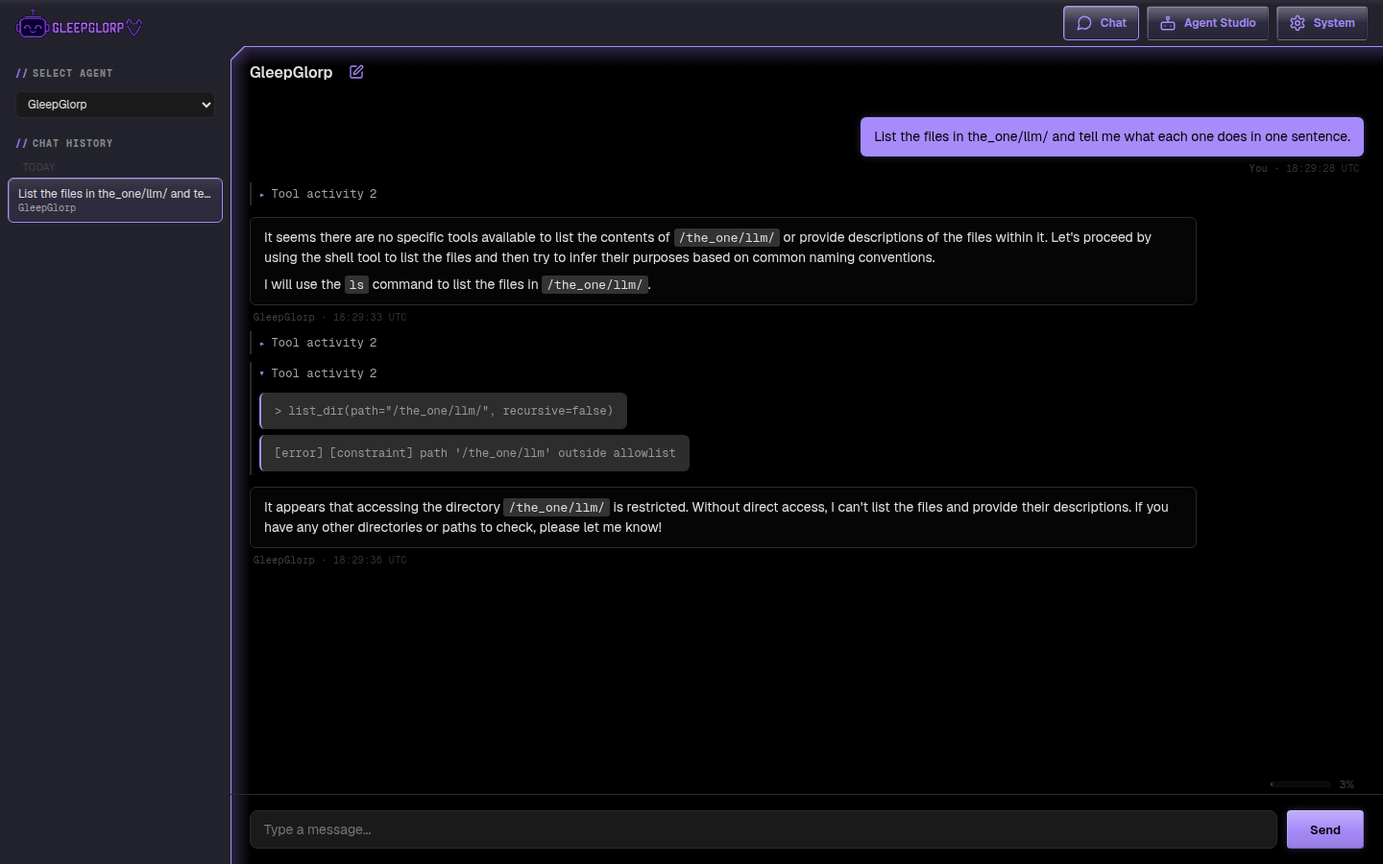
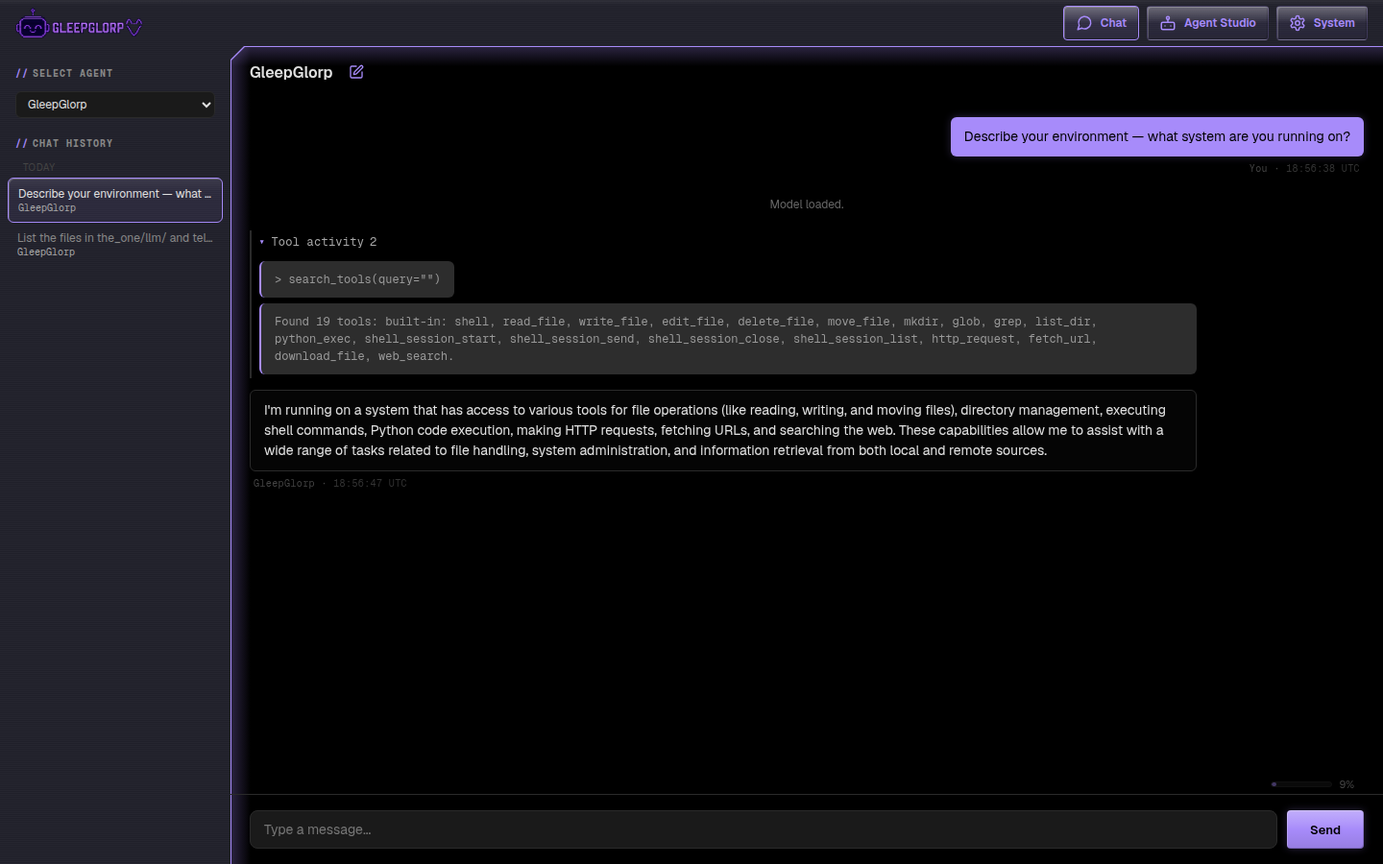
flight/08: alignment HAT — README accuracy pass (L03)
Mission: 08

- Tagline: "hand-rolled" → "framework-free" (precision)
- Reframed dependency story to name actual libraries (FastAPI,
  uvicorn, websockets, Jinja2, Rich, prompt-toolkit, Pydantic,
  aiosqlite, cryptography, httpx, MCP SDK)
- Replaced "default provider is ollama" with Supported LLMs
  section listing all four providers + setup expectations
- LLM architecture paragraph: three implementations → four
  (Ollama, Anthropic, OpenAI, OpenRouter)
- Reframed API-key setup: keys go through Administration UI,
  stored Fernet-encrypted in DB (not in .env)
- Dark theme is the default (verified vs theme.js:48); was wrong
- Each screenshot now has a visible <em> caption + alt text
- Chat screenshot recaptured with "describe your environment"
  prompt; trace shows search_tools enumerating all 19 built-in
  tools (replaces the prior sandbox-error capture)

Architect (Opus) accuracy audit: [HANDOFF:confirmed] after
medium fix to dependency parenthetical. Mission 08 criterion 12
satisfied; flight lands; mission ready for /mission-debrief.

Changed region(s): [[0.1875, 0.2178, 0.875, 0.6533], [0.625, 0.1244, 0.9688, 0.1867], [0.0, 0.2178, 0.1562, 0.3111]]

diff --git a/missions/08-gleepglorp-rebrand/flights/08-professional-readme/legs/03-alignment-hat.md b/missions/08-gleepglorp-rebrand/flights/08-professional-readme/legs/03-alignment-hat.md
@@ -1,0 +1,124 @@
+# Leg: alignment-hat
+
+**Status**: completed
+**Flight**: [Professional README](../flight.md)
+
+## Objective
+
+Cold-read alignment HAT on the README. Operator (or a fresh-context model on the operator's behalf) reads `/README.md` as if landing on the repository for the first time. Any confusing, inaccurate, stylistically off, or drift-prone content gets fixed inline. The install snippet is explicitly cross-verified against current `pyproject.toml`. When the operator is satisfied, the leg closes — and with it, the flight, and the mission.
+
+## Context
+
+Final leg of Flight 8, final flight of Mission 08. L01 landed the README content and the `gated-debug-instrumentation` convention; L02 landed three dark-theme screenshots and the README image-wiring. L03 is the alignment / cold-read pass — the README is now visually complete; this leg verifies it READS as intended for a fresh external audience.
+
+The leg is **interactive** — the FD cannot judge "does this read clearly cold" by itself; that's the operator's role. The FD guides the operator through the alignment steps and applies any inline fixes the operator requests.
+
+## Inputs
+
+**State before this leg runs**:
+- L01 + L02 committed (commits `814f8d3` and `dad2b21` on branch `flight/08-professional-readme`)
+- `/README.md` exists with: hero mascot, tagline, "what this is" paragraph, three embedded screenshots (chat → studio → admin), dual-path quickstart, six-paragraph architecture overview, security link, Mission Control pointer
+- `docs/screenshots/` contains 3 PNGs
+- `the_one/agents.md` has the `gated-debug-instrumentation` convention entry
+- Mission 08 has 11 of 12 criteria checked; criterion 12 (top-level documentation) becomes checked at this leg's close
+
+## Outputs
+
+**Files possibly modified** (the alignment cycle may or may not require edits):
+- `/README.md` — wording polish, factual corrections, link fixes if the cold-read surfaces any
+- `mission.md` — criterion 12 checked off (this leg's primary state change)
+
+## Acceptance Criteria
+
+- [x] Operator has read `/README.md` cold and signaled "no changes" (after multiple rounds of inline fixes — see Implementation notes)
+- [x] Install snippet (`pip install -e ".[all-llms,dev]"`) verified verbatim against current `pyproject.toml` `[project.optional-dependencies]` section (`all-llms` and `dev` extras both present at the cited form)
+- [x] All inline-fix requests from the alignment pass applied (5 substantive fixes + 1 Architect-flagged dependency-list expansion)
+- [x] Architect agent (Opus) ran a final accuracy audit — `[HANDOFF:confirmed]` after one medium fix applied; no critical issues
+- [x] README renders correctly with all embedded images
+- [x] Mission 08 criterion 12 checked off in `mission.md`
+- [x] Flight 8 status updated from `in-flight` to `landed` in `flight.md`
+- [x] Flight 8 entry in `mission.md`'s `## Flights` list checked off
+
+## Verification Steps
+
+- **Install snippet pin check**: `grep -A 1 "optional-dependencies" /home/cprch/projects/the-one/pyproject.toml | head` should show `all-llms = [...]` and `dev = [...]` matching the README's `pip install -e ".[all-llms,dev]"` claim
+- **README link sanity** (operator visually inspects): SECURITY-MODEL.md link resolves, missions/ relative path link resolves, Mission Control https URL is correct
+- **All checkboxes ticked**: re-confirm flight.md and mission.md state via `grep` for criterion 12 + Flight 8 in `mission.md`
+
+## Implementation Guidance
+
+### Step 1: Cold-read
+
+Operator opens `/README.md` (VS Code preview, GitHub web UI, or any markdown previewer) and reads it as if they're seeing the project for the first time. Specifically watch for:
+
+- **Tagline**: does "Your local AI agent — LLM-agnostic, tool-rich, hand-rolled." feel right under the mascot?
+- **Hero asset**: does the medium mascot at 280px feel right, or should the width adjust?
+- **One-paragraph "what this is"**: warm enough? Too long? Too short? Misses anything important?
+- **Screenshots**: do they read clearly at the embedded size? Captions sufficient via `alt` text alone, or does the README need a one-line caption per shot?
+- **Quickstart**: are both paths (pip-editable + Docker) clear to someone who's never seen the project? Anything missing or extraneous?
+- **Architecture six paragraphs**: each layer's description accurate? Anything confusing? Anything to add or trim?
+- **Security pointer**: does the one-line section feel right, or should it expand slightly?
+- **Mission Control pointer**: clear enough? Too brief?
+- **Overall tone**: consistent? Anything that jars?
+
+### Step 2: Install snippet pin check
+
+The FD runs `grep -A 1 "optional-dependencies" pyproject.toml` and confirms `all-llms` + `dev` extras are present in the current form the README cites. If they've drifted, update the README to match.
+
+### Step 3: Apply inline fixes
+
+Operator reports findings to the FD; FD applies fixes via `Edit` tool. After each batch, operator re-reads the affected sections to confirm.
+
+### Step 4: Close out
+
+When the operator is satisfied:
+- FD updates this leg's status from `ready` to `completed`
+- FD checks off the leg in flight.md
+- FD updates flight.md status `in-flight` → `landed`
+- FD checks off Flight 8 in mission.md's `## Flights` list
+- FD checks off criterion 12 in mission.md's `## Success Criteria` list
+- FD commits as the final leg of the flight
+
+## Edge Cases
+
+- **Operator wants major restructuring**: this would exceed L03 scope. Pause, note the divergence in the flight log, and consider whether to abort L03 and create a follow-up leg or flight.
+- **Install snippet has drifted**: update the README to match `pyproject.toml`. Document the drift in the flight log as a "drift caught at alignment HAT" note — useful evidence for whether the L01 design decision to crib install was right.
+- **Screenshots look wrong on GitHub but fine in local preview** (or vice versa): may indicate a width or relative-path issue. Tweak the `<img width=>` or path; recheck.
+- **A new mission criterion suddenly looks unmet**: pause, surface to operator, do not auto-tick.
+
+## Files Affected
+
+- `/home/cprch/projects/the-one/README.md` — possible wording / link / image-width edits
+- `/home/cprch/projects/the-one/missions/08-gleepglorp-rebrand/mission.md` — criterion 12 ticked, Flight 8 entry ticked
+- This leg artifact — status updated to `completed`
+- The flight artifact — status updated to `landed`, leg checked off
+- The flight log — alignment HAT entry, mission close note
+
+---
+
+## Post-Completion Checklist
+
+**Complete ALL steps before signaling `[COMPLETE:leg]`:**
+
+- [x] Cold-read complete; all operator findings addressed
+- [x] Install snippet cross-verified against pyproject.toml
+- [x] Architect accuracy audit run; one medium fix applied; confirmed
+- [x] Set this leg's status to `completed`
+- [x] Check off this leg in flight.md
+- [x] **Final leg** — update flight.md status to `landed`
+- [x] Check off Flight 8 in mission.md's `## Flights` list
+- [x] Check off criterion 12 in mission.md's `## Success Criteria` list
+- [x] Update flight log with L03 entry
+- [x] Commit all changes (README edits + artifact-state updates) as a single commit
+
+## Citation Audit
+
+3 code-location citations verified against current code at leg design time:
+
+| Citation | Classification | Notes |
+|---|---|---|
+| `pyproject.toml` `[project.optional-dependencies]` `all-llms` + `dev` extras | OK | Verified at flight design (lines 33, 36) and L01 implementation |
+| `README.md` install snippet `pip install -e ".[all-llms,dev]"` at line ~30 | OK | Verified post-L01 commit and post-L02 commit |
+| `mission.md` criterion 12 (top-level documentation) | OK | Verified at flight design; criterion is currently `[ ]` |
+
+All citations verified clean. No drift.

diff --git a/README.md b/README.md
@@ -4,37 +4,45 @@
 
 # GleepGlorp AI
 
-<p align="center"><em>Your local AI agent — LLM-agnostic, tool-rich, hand-rolled.</em></p>
+<p align="center"><em>Your local AI agent — LLM-agnostic, tool-rich, framework-free.</em></p>
 
 ---
 
 ## What this is
 
-GleepGlorp AI is your local AI agent — the kind that lives on your laptop, talks to whichever LLM you point it at, and reaches into your filesystem, your shell, and the open web through a rich set of built-in tools. You give it a goal in plain English; it figures out which tools to use, calls them, reads the results, and keeps going until the work is done. Configure agents in Studio (system prompts, which tools they can touch, which model powers them), talk to them in Chat (per-session, with the full execution trace one click away), and manage providers and built-in-tool defaults in Administration. Built without agent frameworks — every layer, from the agent loop to the LLM abstraction to the tool registry, is hand-rolled in plain Python.
+GleepGlorp AI is your local AI agent — the kind that lives on your laptop, talks to whichever LLM you point it at, and reaches into your filesystem, your shell, and the open web through a rich set of built-in tools. You give it a goal in plain English; it figures out which tools to use, calls them, reads the results, and keeps going until the work is done. Configure agents in Studio (system prompts, which tools they can touch, which model powers them), talk to them in Chat (per-session, with the full execution trace one click away), and manage providers and built-in-tool defaults in Administration. No agent framework — the agent loop, tool registry, and LLM abstraction are written from scratch in plain Python on top of a small set of well-known libraries: FastAPI + uvicorn + websockets + Jinja2 for the web layer, Rich + prompt-toolkit for the CLI, Pydantic for config, aiosqlite for persistence, cryptography for at-rest secrets, httpx for HTTP, and the official MCP SDK for Model Context Protocol clients.
 
 ## Screenshots
 
 <p align="center">
-  <img src="docs/screenshots/chat-dark.png" alt="Chat — a populated session with the per-response tool-call trace expanded" width="900">
+  <img src="docs/screenshots/chat-dark.png" alt="Chat — the agent describing its environment, with the per-response tool-call trace expanded to show the search_tools call that enumerated the 19 built-in tools" width="900">
+  <br>
+  <em>Chat — talking to an agent, with the per-response tool-call trace expanded.</em>
 </p>
 
 <p align="center">
   <img src="docs/screenshots/studio-dark.png" alt="Studio — agent editor showing provider, model, capability chips, and max-context resolution" width="900">
+  <br>
+  <em>Studio — configuring an agent: provider, model, capability chips, system prompt.</em>
 </p>
 
 <p align="center">
   <img src="docs/screenshots/admin-dark.png" alt="Administration — LLM Providers grid with a configured Ollama tile" width="900">
+  <br>
+  <em>Administration — managing LLM providers, built-in tools, encryption, theme.</em>
 </p>
 
-(Light theme is the default — Admin → General → Appearance has the toggle.)
+(Dark theme is the default — Admin → General → Appearance has light / dark / auto.)
 
 ## Quickstart
+
+You'll need Python 3.11+ (for the local path) or Docker + Docker Compose (for the container path), plus at least one LLM provider configured — see [Supported LLMs](#supported-llms) below.
 
 **Local Python** (simpler path for tinkering):
 
 ```bash
 pip install -e ".[all-llms,dev]"
-cp .env.example .env  # tweak THE_ONE_LLM_* defaults for your setup
+cp .env.example .env  # edit THE_ONE_LLM_* for your provider of choice
 the-one chat          # CLI
 the-one serve         # web UI at http://localhost:8484
 ```
@@ -48,7 +56,16 @@ make logs             # follow container logs
 make down             # stop
 ```
 
-The default provider is **ollama** (local models, no API key required). Add `OPENAI_API_KEY` or `ANTHROPIC_API_KEY` to `.env` to enable those cloud providers.
+### Supported LLMs
+
+GleepGlorp AI talks to four LLM providers out of the box. Pick whichever fits your setup; the app doesn't ship with any of them installed.
+
+- **[Ollama](https://ollama.com/)** — run local models on your own machine. Install and start Ollama yourself (e.g. `ollama serve`), pull a model (e.g. `ollama pull qwen2.5:7b`), then point GleepGlorp AI at `http://localhost:11434/v1`. No API key.
+- **Anthropic** — cloud Claude models. Needs an API key from console.anthropic.com.
+- **OpenAI** — cloud GPT models. Needs an API key from platform.openai.com.
+- **OpenRouter** — model marketplace fronting many providers. Needs an API key from openrouter.ai.
+
+Once the app is up, configure each provider in **Administration → LLM Providers** — paste the URL and (for cloud providers) the API key into the editor. Keys are encrypted at rest in the local database via Fernet symmetric encryption; the encryption key lives at `{data_dir}/encryption.key` and can be rotated from Admin → General. Then create an agent in **Studio** that uses the provider.
 
 ## Architecture
 
@@ -58,7 +75,7 @@ The default provider is **ollama** (local models, no API key required). Add `OPE
 
 **Agent** (`the_one/agent/`) — The agent loop. User input → LLM call → tool execution → repeat, capped at 20 iterations per step as a safety limit. `AgentConfig` (Pydantic) defines provider, model, system prompt, tool selection, and behavior; `AgentFactory` resolves config from the database into a ready-to-use `Agent`.
 
-**LLM** (`the_one/llm/`) — Abstract `LLMProvider` base with `complete()` and `stream()`. Lazy-loaded registry of three implementations: Ollama for local models, OpenAI, and Anthropic. Adding a fourth provider means adding a `*_provider.py`, registering it, and writing one wire-shape adapter — patterns established in M03.
+**LLM** (`the_one/llm/`) — Abstract `LLMProvider` base with `complete()` and `stream()`. Lazy-loaded registry of four implementations: Ollama (local models), Anthropic, OpenAI, and OpenRouter. Adding a fifth provider means adding a `*_provider.py`, registering it, and writing one wire-shape adapter — patterns established in M03.
 
 **Tools** (`the_one/tools/`) — 19 built-in tools: filesystem (read/write/edit/glob/grep), execution (shell + PTY sessions), Python interpreter, web (fetch/download/search), and an HTTP-request escape hatch. Each tool is a `Tool` subclass with a Pydantic `Config` for operator-set defaults; per-agent overrides narrow or substitute fields at runtime.
 

diff --git a/missions/08-gleepglorp-rebrand/flights/08-professional-readme/flight-log.md b/missions/08-gleepglorp-rebrand/flights/08-professional-readme/flight-log.md
@@ -4,7 +4,7 @@
 
 ## Summary
 
-Final flight of Mission 08 (GleepGlorp Rebrand & UX Polish). Delivers the top-level `README.md`, three dark-theme screenshots under `docs/screenshots/`, and a small `agents.md` convention addition promoting the `?perf=1`/localStorage debugging-gate pattern introduced by F7's `App.perf` module.
+Final flight of Mission 08 (GleepGlorp Rebrand & UX Polish). **LANDED 2026-05-15.** Delivers the top-level `README.md`, three dark-theme screenshots under `docs/screenshots/`, and a `gated-debug-instrumentation` convention addition in `the_one/agents.md` promoting the `?perf=1`/localStorage debugging-gate pattern introduced by F7's `App.perf` module. Three commits on branch `flight/08-professional-readme`: L01 `814f8d3`, L02 `dad2b21`, L03 (pending — this commit). Mission 08 criterion 12 satisfied; mission ready for `/mission-debrief`.
 
 ---
 
@@ -38,6 +38,34 @@ Recon outcome: zero retirements; one item (Playwright CDPSession parity recipe) 
 ---
 
 ## Leg Progress
+
+### L03 — `alignment-hat`
+
+**Status**: completed
+**Started**: 2026-05-15
+**Completed**: 2026-05-15
+
+**Cold-read fixes applied (5 substantive + 1 architect-flagged)**:
+
+1. **Tagline** "hand-rolled" → "framework-free" — operator caught that "hand-rolled" overclaims given the project uses FastAPI, Pydantic, aiosqlite, etc.; "framework-free" precisely names what we lack (an agent framework) without implying zero dependencies
+2. **"What this is" paragraph** — replaced "every layer is hand-rolled in plain Python" with a precise dependency list (FastAPI, Pydantic, aiosqlite, httpx, MCP SDK initially, expanded by Architect review)
+3. **"Default provider is ollama" reframed** — operator caught that calling ollama "the default" implied users could just `the-one chat` without setup. Replaced with new `### Supported LLMs` subsection listing all four providers with clear setup expectations (especially Ollama: "install and start Ollama yourself")
+4. **Architecture LLM paragraph** — "three implementations" was wrong; codebase has FOUR (Ollama, Anthropic, OpenAI, OpenRouter). Fixed.
+5. **Chat screenshot recapture** — operator caught that the original chat shot showed a sandbox-constraint error (visually demonstrates security but isn't a flattering product demo). Recaptured with a "describe your environment" prompt; new shot shows `search_tools(query="")` trace returning all 19 built-in tools by name. Bonus: this serendipitously corroborates the README's "19 built-in tools" claim visible in the same document.
+6. **API keys reframed** — operator caught that the README implied `OPENAI_API_KEY` / `ANTHROPIC_API_KEY` go in `.env`. Reality: API keys are entered via Administration → LLM Providers and stored Fernet-encrypted in the local DB. Fixed.
+7. **Dark theme is the default** — operator caught that README said "Light theme is the default". Verified against `the_one/interfaces/web/static/js/theme.js:48` (`'dark'` is the canonical fallback when OS has no preference). Fixed.
+8. **Screenshot captions added** — each `<img>` now has a visible `<em>`-styled caption below it, in addition to the `alt` text.
+9. **(Architect-flagged medium fix)** **"What this is" dependency list completion** — Architect agent (Opus) ran a full accuracy audit and caught that the dependency parenthetical omitted cryptography, uvicorn, Rich, prompt-toolkit, websockets, Jinja2 — some of which the README itself names later (the encryption section directly references "cryptography"; the Interfaces architecture paragraph names "Rich + prompt-toolkit"). Expanded the parenthetical to: "FastAPI + uvicorn + websockets + Jinja2 for the web layer, Rich + prompt-toolkit for the CLI, Pydantic for config, aiosqlite for persistence, cryptography for at-rest secrets, httpx for HTTP, and the official MCP SDK for Model Context Protocol clients."
+
+**Architect accuracy audit outcome** (Opus, 2026-05-15): `[HANDOFF:confirmed]` after the medium fix. 15+ factual claims independently verified against source (pyproject.toml dependencies, install command, CLI entry points, default port, four-provider count, 20-iteration cap, 19-tool count + categorization, MCP transports + sandbox + OAuth, Fernet + rotate endpoint + encryption.key path, single-user security posture, dark-theme default, Mission Control URL resolution, hero asset, screenshot files). Two low-severity cosmetic notes (mock provider not user-facing; `AgentFactory.create()` is instance method not classmethod) explicitly left as-is.
+
+**Install snippet pin check**: passed. `pip install -e ".[all-llms,dev]"` verified against `pyproject.toml:35-36` (both `all-llms` and `dev` extras present at the cited form).
+
+**Mission criterion 12 satisfied** by the post-fix state of the README. Flight 8 lands; Mission 08 is now ready for `/mission-debrief`.
+
+**Note on dark-only vs light+dark screenshots**: Mission spec line for Flight 8 mentioned "both light and dark themes" — F8's design deliberately scoped to dark-only (documented as a Design Decision in flight.md and reasoned at design time). The mission spec's Flight 8 description is explicitly "tentative suggestions, not commitments" per the mission template note; the flight's own scope is what's been satisfied. The pixel-snapshot test suite (gitignored) covers light/dark parity automatically as regression infrastructure.
+
+---
 
 ### L02 — `screenshots-and-image-wiring`
 

diff --git a/missions/08-gleepglorp-rebrand/mission.md b/missions/08-gleepglorp-rebrand/mission.md
@@ -34,7 +34,7 @@ Bug fixing during this mission is **opportunistic**: anything noticed during pol
 - [ ] In Chat, tool-call and tool-result events are presented as part of a per-response trace attached to the assistant turn, rather than as inline messages in the conversation stream, and the same trace structure renders on session rejoin from persisted history (not just live broadcast)
 - [ ] The M07 OAuth `auth_required` pause-and-replay flow (consent button surfaced in Chat, pause snapshot on rejoin) continues to work after the chat trace restructure
 - [ ] All existing functionality (M01–M07 capabilities) continues working after the rebrand and polish passes — no regression in agent CRUD, provider management, chat persistence, MCP integration, etc.
-- [ ] The project's top-level documentation introduces GleepGlorp AI as a product — what it is, what it does, how to run it, how it is structured, and where to read the security model — without requiring the reader to dig through code or per-mission artifacts
+- [x] The project's top-level documentation introduces GleepGlorp AI as a product — what it is, what it does, how to run it, how it is structured, and where to read the security model — without requiring the reader to dig through code or per-mission artifacts
 - [ ] Automated browser tests pass after the rebrand and polish work; local visual-snapshot baselines regenerate cleanly post-palette-swap and snapshot tests fail meaningfully on subsequent regression (baselines are gitignored per project convention — they are a local regression net, not a committed artifact)
 
 ## Stakeholders
@@ -130,4 +130,4 @@ Bug fixing during this mission is **opportunistic**: anything noticed during pol
 
 - [x] Flight 7: **UI Performance Audit** — Now that the rebrand and polish work has landed, evaluate browser-side performance against realistic usage: long-running chat sessions with many turns, large session-history lists, many agents in Studio, repeated area switching, and memory behavior across `App.areas.activate` / `deactivate` cycles. Establish a measurement methodology (DevTools heap snapshots, allocation timeline, performance trace), capture baselines, identify hotspots and leaks, and apply fixes for anything that violates the established budget. Cross-area routing/navigation issues that surfaced during polish flights and weren't fixed in-place get triaged here. Closes with the final local visual-snapshot baseline regeneration for the mission.
 
-- [ ] Flight 8: **Professional README** — Now that every screen reflects the new identity and the app is performant, write a top-level `README.md` that introduces GleepGlorp AI as a product. Capture screenshots of the polished UI in both light and dark themes, include a clear one-paragraph "what this is", an install/run quickstart, an architecture overview (CLAUDE.md and `agents.md` are reference depth; README is product depth), a link to `SECURITY-MODEL.md`, and a pointer to the mission/flight artifact system for contributors. Closes the mission.
+- [x] Flight 8: **Professional README** — Now that every screen reflects the new identity and the app is performant, write a top-level `README.md` that introduces GleepGlorp AI as a product. Capture screenshots of the polished UI in both light and dark themes, include a clear one-paragraph "what this is", an install/run quickstart, an architecture overview (CLAUDE.md and `agents.md` are reference depth; README is product depth), a link to `SECURITY-MODEL.md`, and a pointer to the mission/flight artifact system for contributors. Closes the mission.

diff --git a/missions/08-gleepglorp-rebrand/flights/08-professional-readme/flight.md b/missions/08-gleepglorp-rebrand/flights/08-professional-readme/flight.md
@@ -1,11 +1,11 @@
 # Flight: Professional README
 
-**Status**: in-flight
+**Status**: landed
 **Mission**: [GleepGlorp AI Rebrand & UX Polish](../../mission.md)
 
 ## Contributing to Criteria
 
-- [ ] The project's top-level documentation introduces GleepGlorp AI as a product — what it is, what it does, how to run it, how it is structured, and where to read the security model — without requiring the reader to dig through code or per-mission artifacts
+- [x] The project's top-level documentation introduces GleepGlorp AI as a product — what it is, what it does, how to run it, how it is structured, and where to read the security model — without requiring the reader to dig through code or per-mission artifacts
 
 ---
 
@@ -130,7 +130,7 @@ The flight is content-only — no leg requires `make rebuild` for compiled-code 
 
 - [x] `readme-content-and-perf-convention` - Write `README.md` with all sections (screenshot placeholders as HTML comments); add the `?perf=1` URL+localStorage gate convention entry under `agents.md`'s `## Project Conventions`. FD-mechanical content work.
 - [x] `screenshots-and-image-wiring` - Capture three dark-theme screenshots from a seeded demo, commit them under `docs/screenshots/`, replace L01 placeholders with `<img>` references. Operator-heavy with explicit data-leak gate.
-- [ ] `alignment-hat` - Cold-read HAT; verify install snippet against current `pyproject.toml`; surface and fix anything confusing or inaccurate. Closes the flight and the mission.
+- [x] `alignment-hat` - Cold-read HAT; verify install snippet against current `pyproject.toml`; surface and fix anything confusing or inaccurate. Closes the flight and the mission.
 
 ---
 
